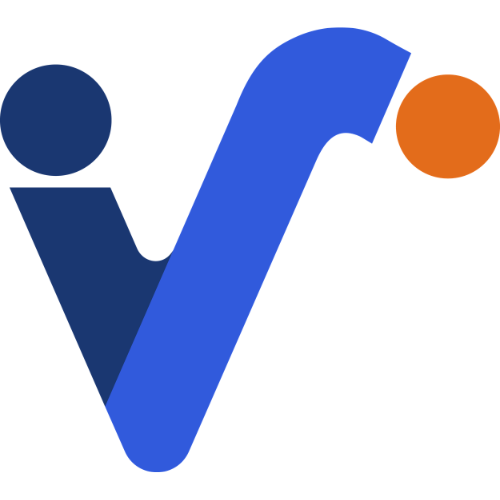
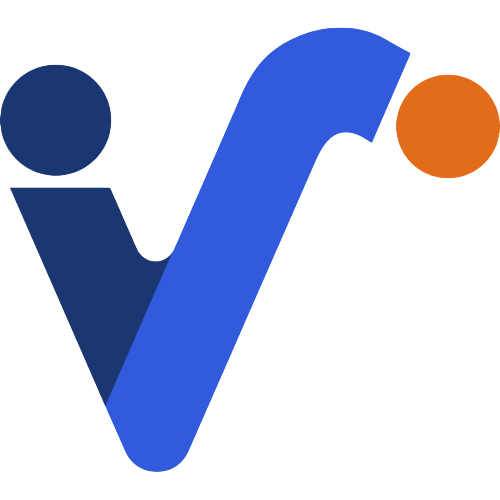
actualizacion general de landing y portal

diff --git a/components/dashboard/properties-table.tsx b/components/dashboard/properties-table.tsx
@@ -587,13 +587,13 @@ export function PropertiesTable() {
               <TableHeader>
                 <TableRow>
                   <TableHead>Propiedad</TableHead>
-                  <TableHead>Dirección</TableHead>
-                  <TableHead>Tipo</TableHead>
+                  <TableHead className="hidden md:table-cell">Dirección</TableHead>
+                  <TableHead className="hidden md:table-cell">Tipo</TableHead>
                   <TableHead>Estatus</TableHead>
-                  <TableHead>Pago</TableHead>
-                  <TableHead>Monto</TableHead>
-                  <TableHead>Pagado hasta</TableHead>
-                  <TableHead>Saldo</TableHead>
+                  <TableHead className="hidden md:table-cell">Pago</TableHead>
+                  <TableHead className="hidden md:table-cell">Monto</TableHead>
+                  <TableHead className="hidden md:table-cell">Pagado hasta</TableHead>
+                  <TableHead className="hidden md:table-cell">Saldo</TableHead>
                   <TableHead className="text-right">Acciones</TableHead>
                 </TableRow>
               </TableHeader>
@@ -614,7 +614,7 @@ export function PropertiesTable() {
                         {property.name || "Sin nombre"}
                       </TableCell>
 
-                      <TableCell className="max-w-[300px]">
+                      <TableCell className="hidden max-w-[300px] md:table-cell">
                         <div className="truncate text-muted-foreground">
                           {property.address || "Sin dirección"}
                         </div>
@@ -624,7 +624,7 @@ export function PropertiesTable() {
                         </div>
                       </TableCell>
 
-                      <TableCell>
+                      <TableCell className="hidden md:table-cell">
                         {getOptionLabel(propertyTypeOptions, property.property_type)}
                       </TableCell>
 
@@ -646,7 +646,7 @@ export function PropertiesTable() {
                         )}
                       </TableCell>
 
-                      <TableCell>
+                      <TableCell className="hidden md:table-cell">
                         <Badge
                           variant="outline"
                           className={paymentBadge.className}
@@ -655,15 +655,15 @@ export function PropertiesTable() {
                         </Badge>
                       </TableCell>
 
-                      <TableCell className="font-medium">
+                      <TableCell className="hidden font-medium md:table-cell">
                         {formatCurrency(activeLease?.rent_amount)}
                       </TableCell>
 
-                      <TableCell>
+                      <TableCell className="hidden md:table-cell">
                         {leaseBalance?.paidUntilLabel || "—"}
                       </TableCell>
 
-                      <TableCell>
+                      <TableCell className="hidden md:table-cell">
                         {leaseBalance ? formatCurrency(leaseBalance.balance) : "—"}
                       </TableCell>
 

diff --git a/components/properties/properties-management.tsx b/components/properties/properties-management.tsx
@@ -1037,11 +1037,11 @@ export function PropertiesManagement() {
                           </div>
 
                           <div className="min-w-0 flex-1">
-                            <h3 className="truncate text-[28px] font-semibold tracking-wider text-[#213A6B]">
+                            <h3 className="truncate text-xl font-semibold tracking-wider text-[#213A6B] sm:text-[28px]">
                               {property.name || "Sin nombre"}
                             </h3>
 
-                            <p className="mt-1 text-lg text-slate-600">
+                            <p className="mt-1 text-sm text-slate-600 sm:text-lg">
                               {property.address || "Sin dirección"}
                               {property.neighborhood ? ` · ${property.neighborhood}` : ""}
                               {property.zip_code ? ` · CP ${property.zip_code}` : ""}